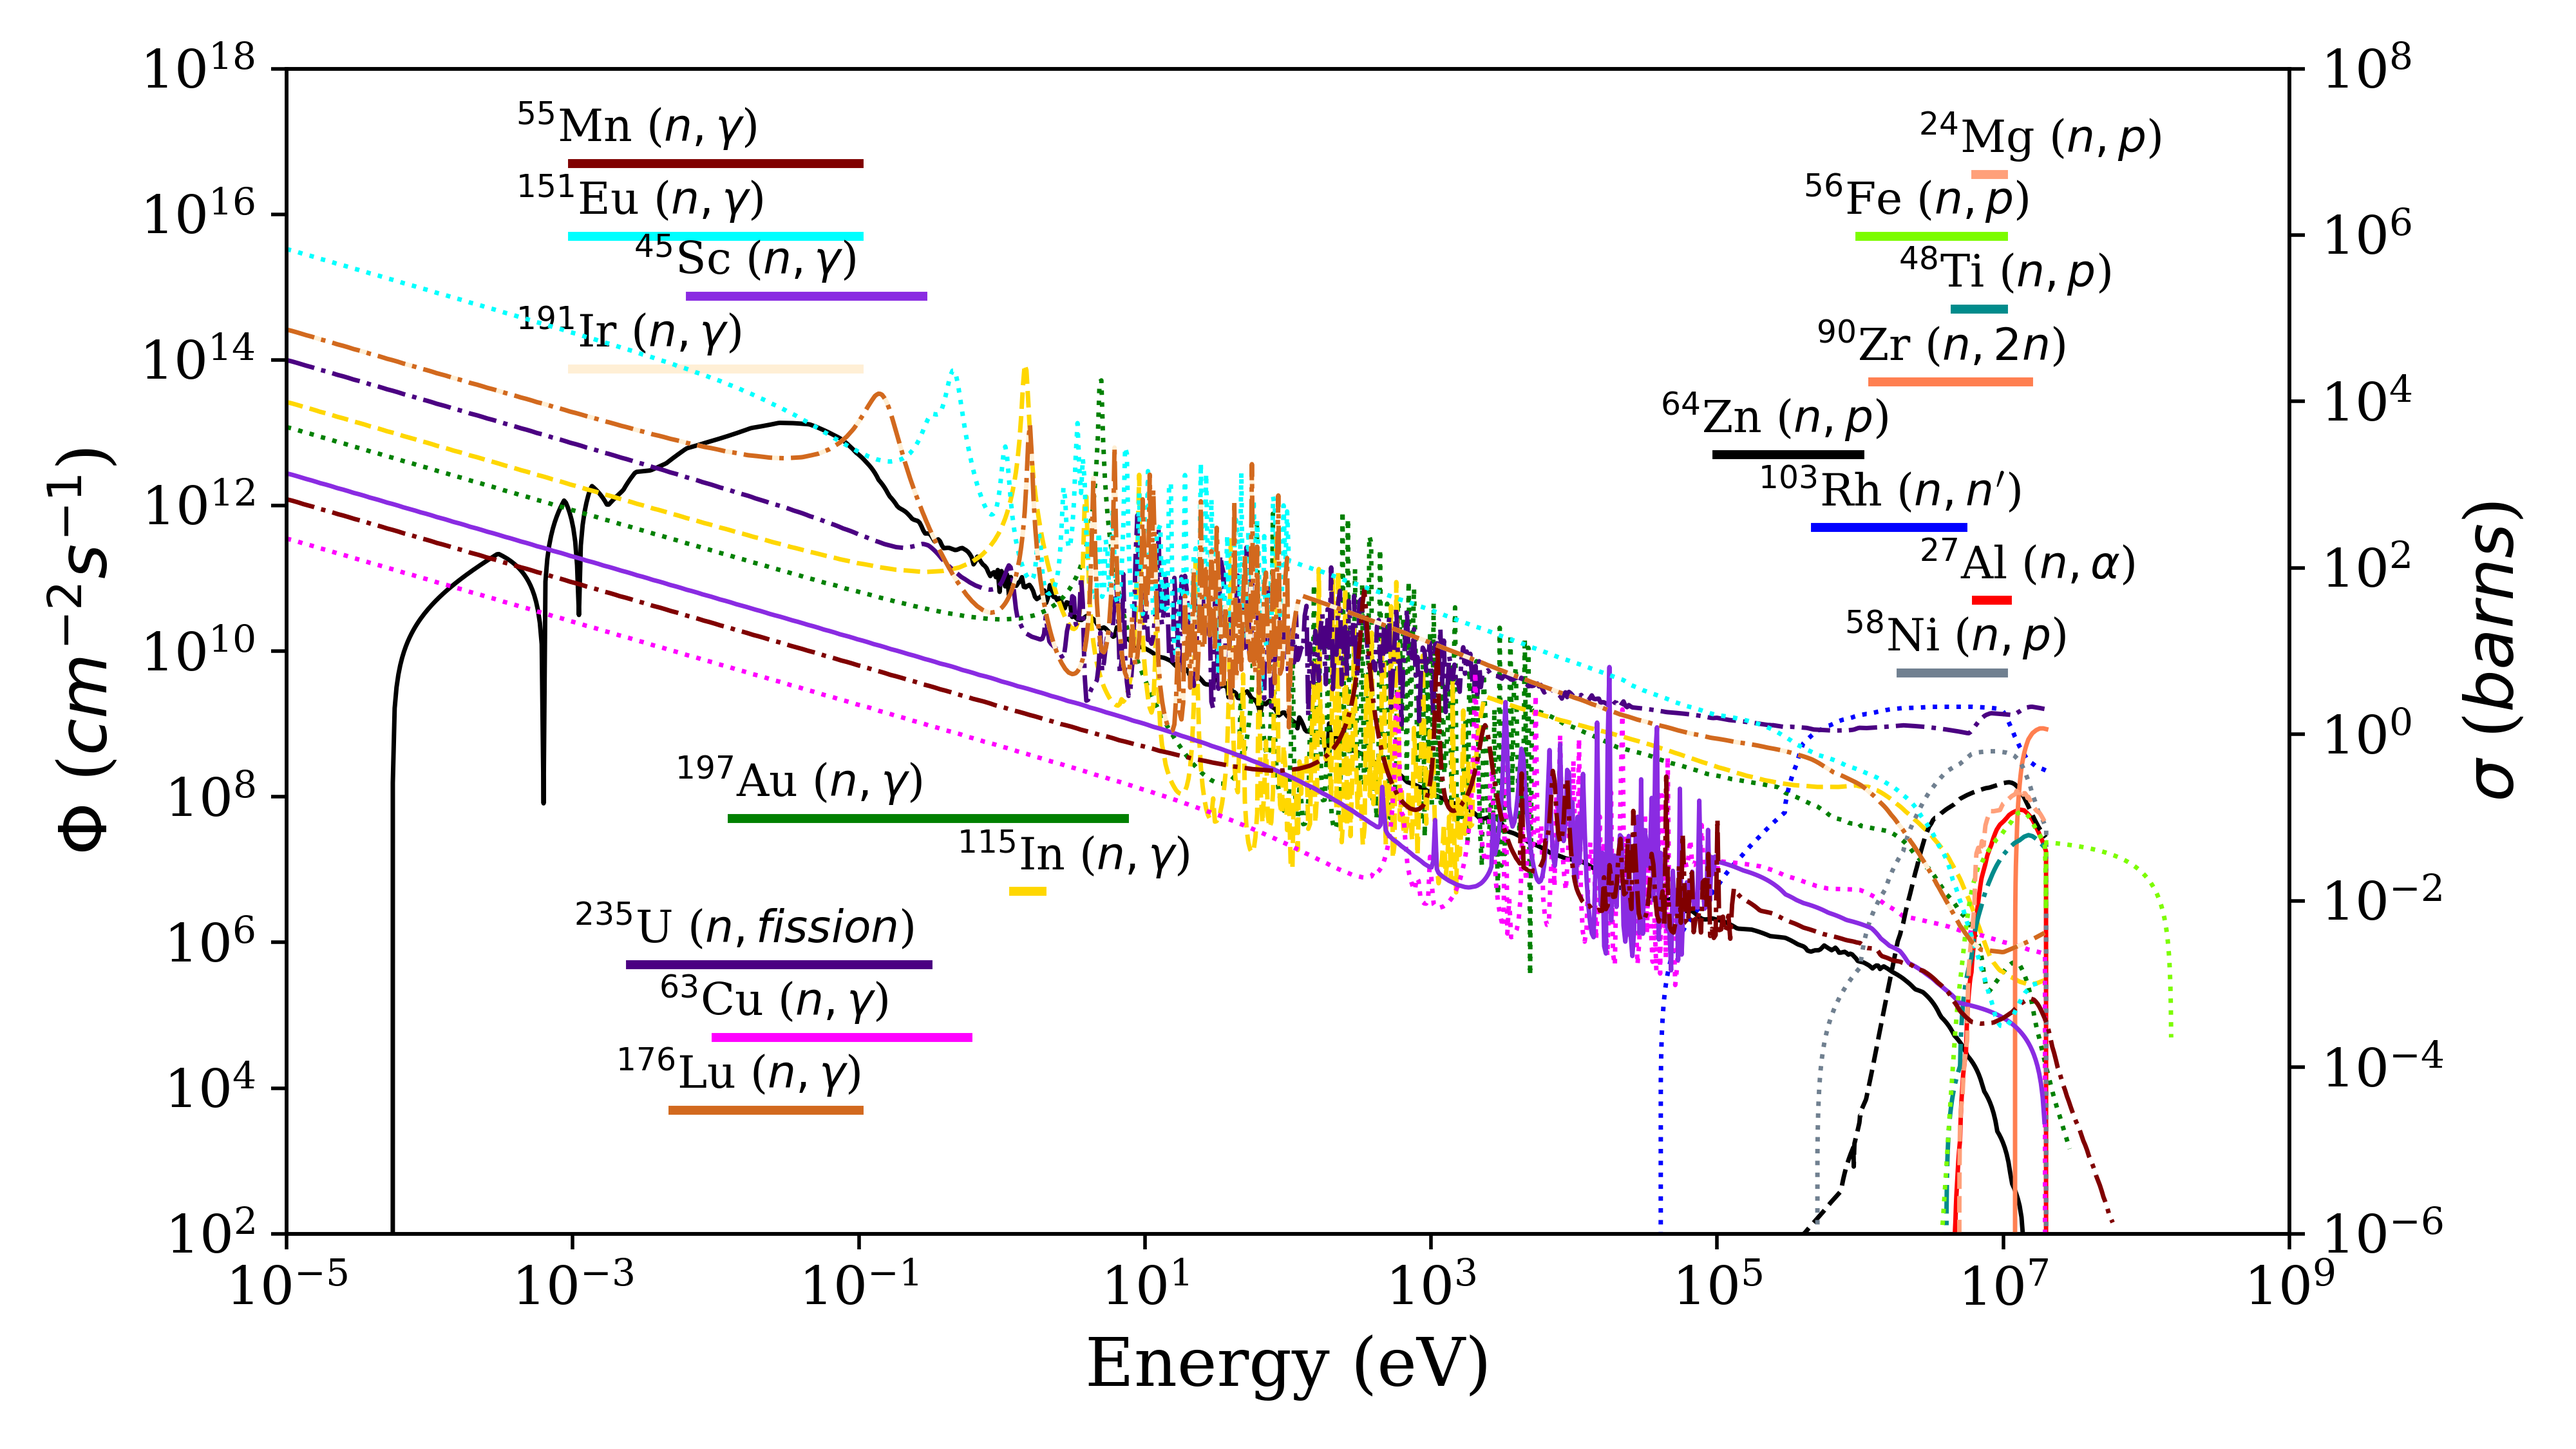
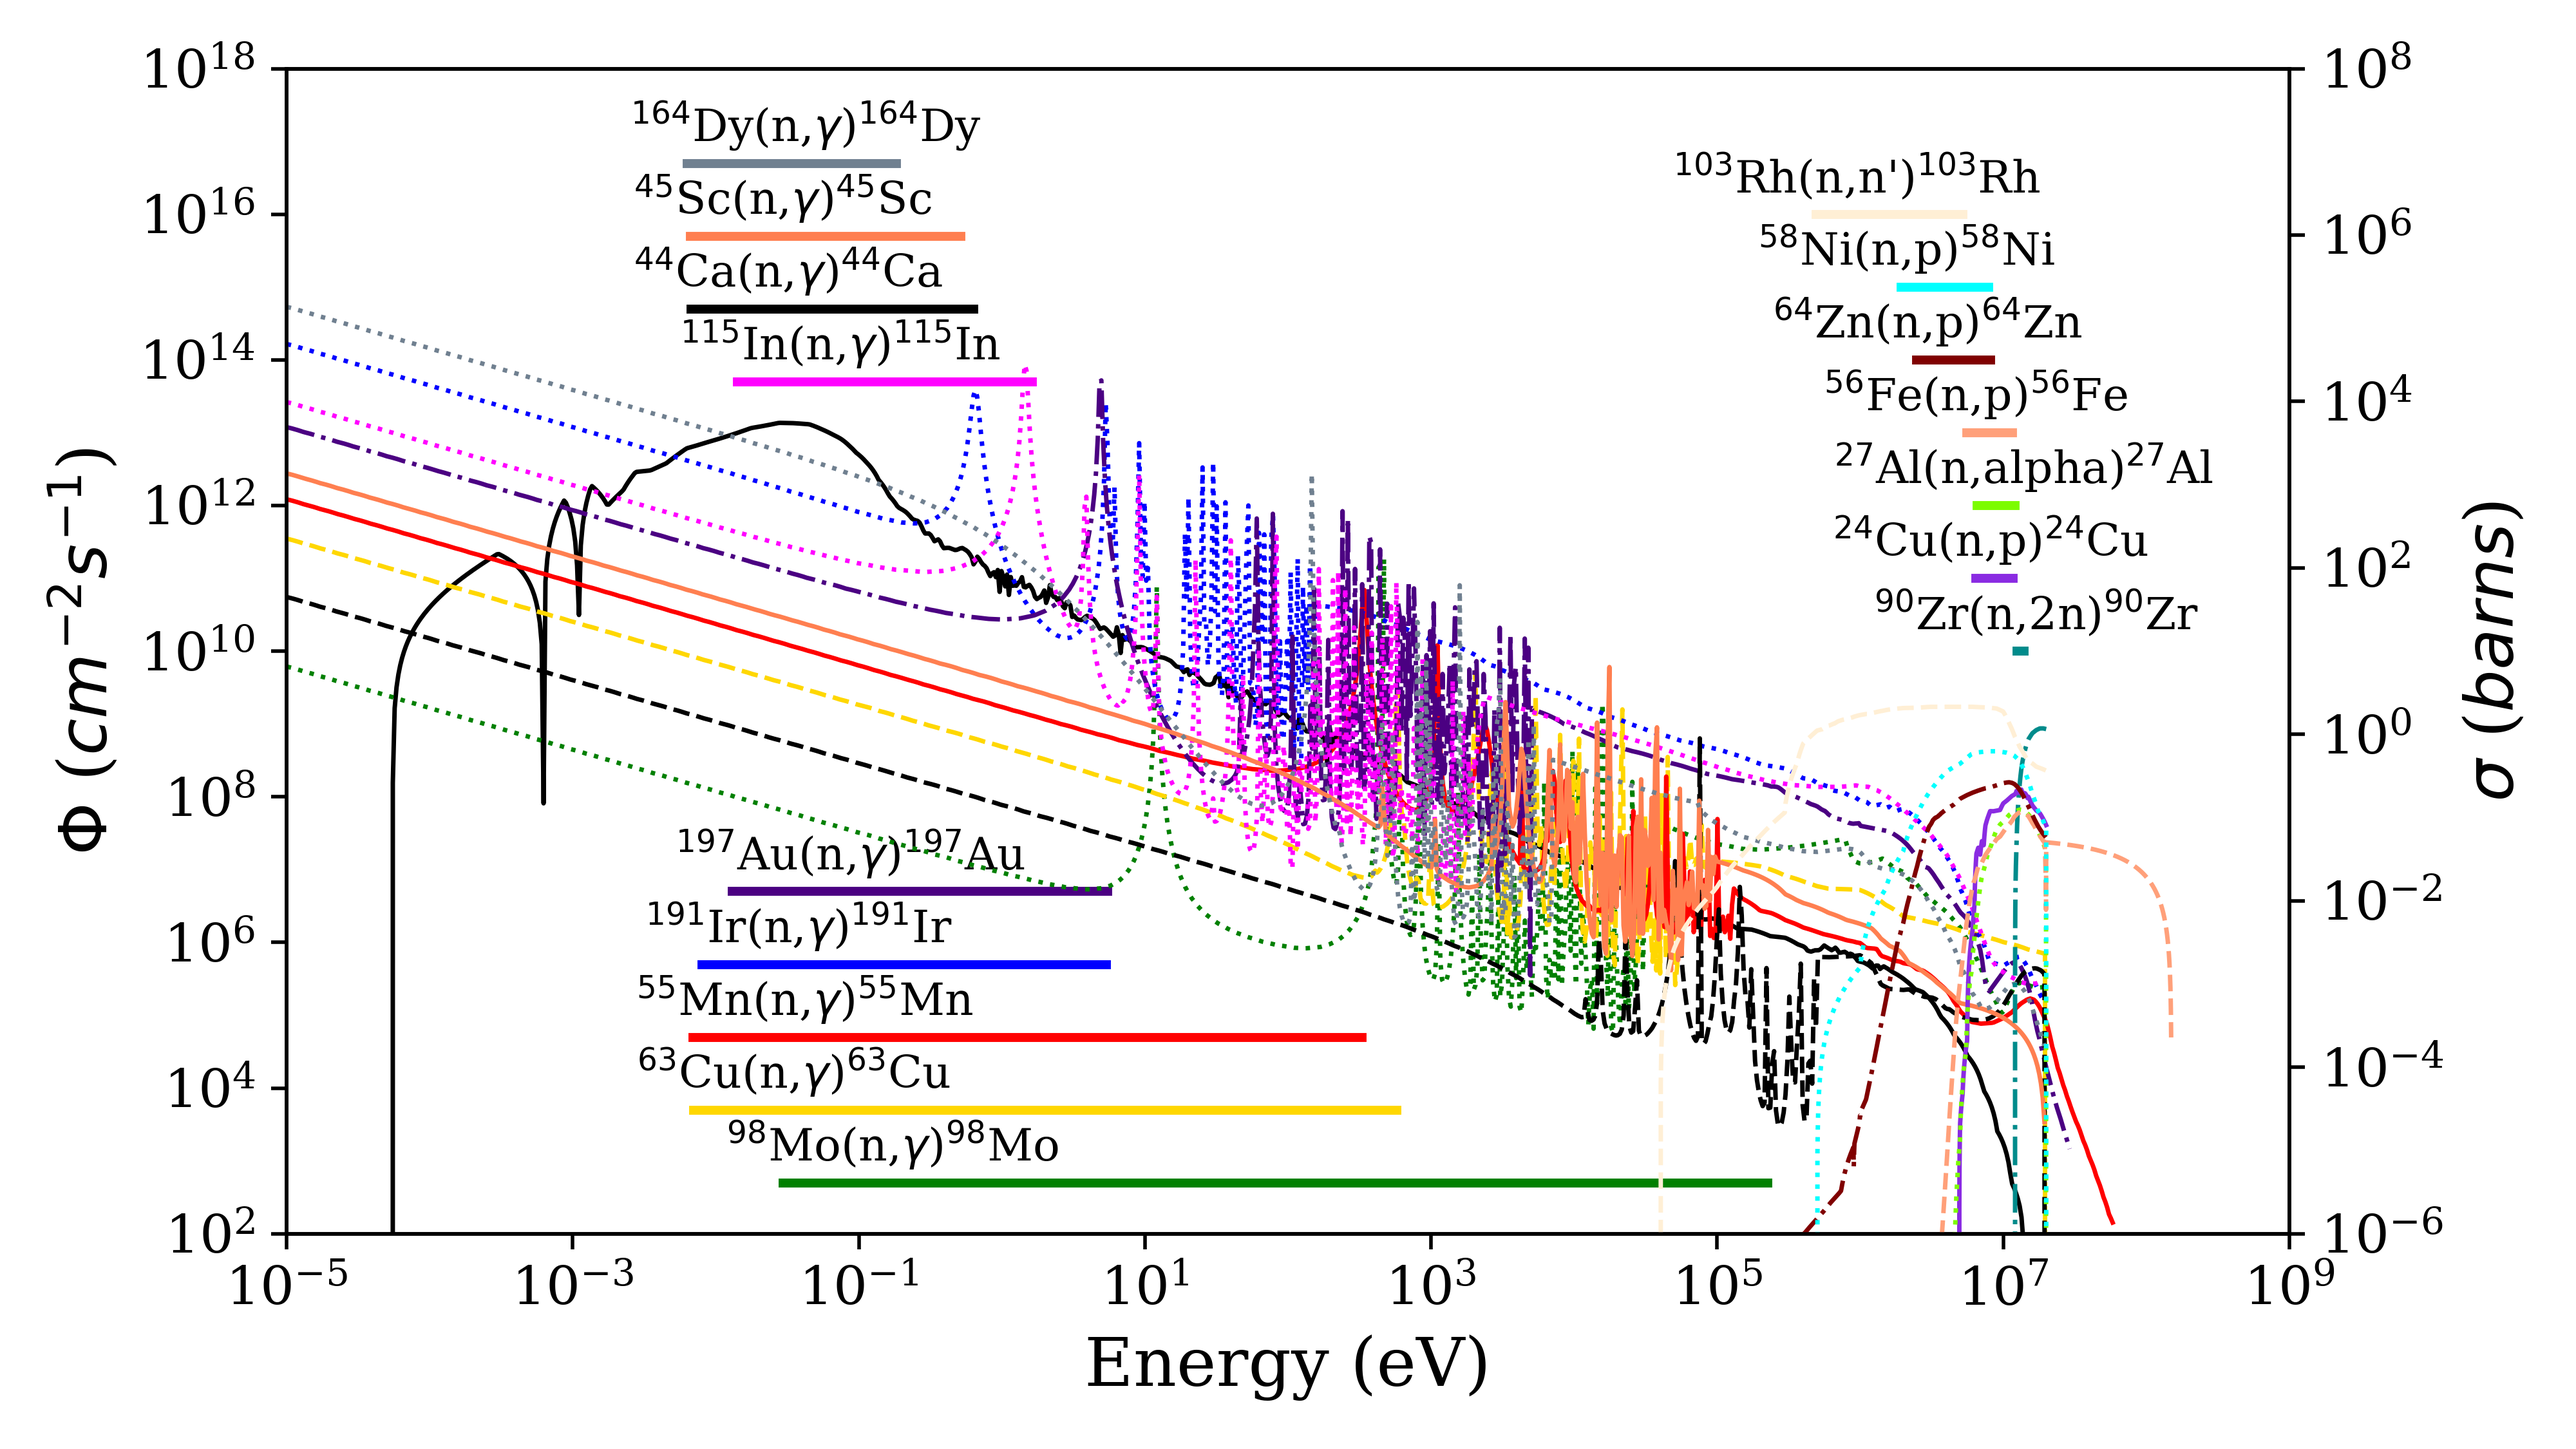
updated amalgamated plot

Changed region(s): [[0.125, 0.0622, 0.8125, 0.84], [0.6562, 0.0622, 0.875, 0.4978]]

diff --git a/source/amalgamated_plot.py b/source/amalgamated_plot.py
@@ -2,7 +2,7 @@ import numpy as np
 import matplotlib.pyplot as plt
 from matplotlib import rc, rcParams
 
-from cross_sections import foils, Cd
+from reaction import foils
 from flux_spectrum import Flux
 from triga_spectrum import triga_spectrum
 
@@ -40,30 +40,6 @@ x = np.logspace(-5, 8, 1000)
 y = triga_spectrum(x)
 ax1.plot(x, y, 'k', label='$\Phi$')
 
-reactions = [foils['Au']['reactions']['n,gamma'],
-             foils['In']['reactions']['n,gamma'],
-             foils['Al']['reactions']['n,alpha'],
-             foils['Rh']['reactions']['n,inelastic'],
-             foils['U']['reactions']['n,total_fission'],
-             foils['Cu']['reactions']['n,gamma'],
-             foils['Zn']['reactions']['n,p'],
-             foils['Zr']['reactions']['n,2n'],
-             foils['Ni']['reactions']['n,p'],
-             foils['Ti']['reactions']['n,p'],
-             foils['Sc']['reactions']['n,gamma'],
-             foils['Fe']['reactions']['n,p'],
-             foils['Mg']['reactions']['n,p'],
-             foils['Mn']['reactions']['n,gamma'],
-             #foils['Mo']['reactions']['n,gamma'],
-             foils['Eu']['reactions']['n,gamma'],
-             foils['Ir']['reactions']['n,gamma'],
-             foils['Lu']['reactions']['n,gamma']]
-
-foilnames = ['$^{197}$Au', '$^{115}$In', '$^{27}$Al', '$^{103}$Rh', '$^{235}$U',
-             '$^{63}$Cu', '$^{64}$Zn','$^{90}$Zr','$^{58}$Ni','$^{48}$Ti',
-             '$^{45}$Sc', '$^{56}$Fe', '$^{24}$Mg','$^{55}$Mn',#'$^{98}$Mo',
-             '$^{151}$Eu', '$^{191}$Ir', '$^{176}$Lu']
-
 colors = ['green', 'gold', 'red', 'blue', 'indigo', 'fuchsia', 'black', 
           'coral','slategrey', 'darkcyan', 'blueviolet', 'lawngreen',
           'lightsalmon', 'maroon', 'cyan','papayawhip', 'chocolate',
@@ -71,21 +47,40 @@ colors = ['green', 'gold', 'red', 'blue', 'indigo', 'fuchsia', 'black',
 linestyles = [':', '--', '-', ':', '-.', ':','--', '-',':','-.','-',':','--',
               '-.',':','--','-.',':']
 scaling_factor = 5e14
-heights = np.array([1e-7, 1e-8, 1e-4, 1e-3, 1e-9, 1e-10,1e-2,1e-1,1e-5,1,
-                    1.5,10,70,100,10,1.5e-1,1e-11,1e-12]) * scaling_factor
+res_heights = np.array([1e3, 1e4, 1e5, 1e6, 1e7, 1e14, 1e15, 1e16, 1e17]) * 0.5
+thresh_heights = np.geomspace(1e10, 1e17, 8)
 
-for i, reaction in enumerate(reactions):
+resonance = []
+threshold = []
+for key, foil in foils.items():
+    if foil.classification == 'resonance':
+        resonance.append(foil)
+    else:
+        threshold.append(foil)
+resonance = sorted(resonance, key=lambda x: -(np.log(x.roi[1]) - np.log(x.roi[0])))
+threshold = sorted(threshold, key=lambda x: np.log(x.roi[1]) - np.log(x.roi[0]))
+
+for i, foil in enumerate(resonance):
     # region
-    roi = reaction['roi']
-    l = reaction['label']
-    f = foilnames[i]
-    ax1.plot(roi, [heights[i]]*2, color=colors[i], linewidth=2.0)
-    ax1.text(roi[0]*0.4, heights[i]*2, f+' '+l)
+    ax1.plot(foil.roi, [res_heights[i]]*2, color=colors[i], linewidth=2.0)
+    ax1.text(foil.roi[0]*0.4, res_heights[i]*2, foil.label)
 
     # cross section
-    xs = reaction['func']
-    region = reaction['region']
+    xs = foil.func
+    region = foil.region
     reg = np.geomspace(*region, 1000)[:-1]
-    ax2.plot(reg, xs(reg), color=colors[i], label=f+' '+l, linestyle=linestyles[i])
+    ax2.plot(reg, xs(reg), color=colors[i], label=foil.label, linestyle=linestyles[i])
+
+for i, foil in enumerate(threshold):
+    l = len(resonance)
+    # region
+    ax1.plot(foil.roi, [thresh_heights[i]]*2, color=colors[i+l], linewidth=2.0)
+    ax1.text(foil.roi[0]*0.1, thresh_heights[i]*2, foil.label)
+
+    # cross section
+    xs = foil.func
+    region = foil.region
+    reg = np.geomspace(*region, 1000)[:-1]
+    ax2.plot(reg, xs(reg), color=colors[i+l], label=foil.label, linestyle=linestyles[i+l])
 
 fig.savefig('plot/amalgamated.png', dpi=500)

diff --git a/source/reaction.py b/source/reaction.py
@@ -41,7 +41,8 @@ class Reaction(object):
         reac, r_num = self.reactant.split('-')
         bypr, b_num = self.reactant.split('-')
         cd_s = ' Cd' if self.cd else ''
-        label = '$^{{{}}}${}({})$^{{{}}}${}{}'.format(r_num, reac, self.reaction, b_num, reac, cd_s)
+        reaction = self.reaction if self.reaction != 'n,gamma' else 'n,$\gamma$'
+        label = '$^{{{}}}${}({})$^{{{}}}${}{}'.format(r_num, reac, reaction, b_num, reac, cd_s)
         cd_s = '_Cd' if self.cd else ''
         plotname = '{}({}){}{}'.format(self.reactant, self.reaction, self.byproduct, cd_s)
         return label, plotname
@@ -69,7 +70,7 @@ class Reaction(object):
         return l, r
 
 foils['In'] = Reaction('In-115', 'n,gamma', 'In-116', False, 114.818, 7.31, '49-In-115(n,&gamma;).txt', 54*60, 0.9572, 1293, 0.8, -1)
-foils['InCd'] = Reaction('In-115', 'n,gamma', 'In-116', True, 114.818, 7.31, '49-In-115(n,&gamma;).txt', 54*60, 0.9572, 1293, 0.8, -1)
+# foils['InCd'] = Reaction('In-115', 'n,gamma', 'In-116', True, 114.818, 7.31, '49-In-115(n,&gamma;).txt', 54*60, 0.9572, 1293, 0.8, -1)
 foils['Mo'] = Reaction('Mo-98', 'n,gamma', 'Mo-98', False, 95.95, 10.28, '42-Mo-98(n,&gamma;).txt', 66*3600, 0.2429, 740, 0.12, -1)
 foils['Zn'] = Reaction('Zn-64', 'n,p', 'Cu-64', False, 65.38, 7.14, '30-Zn-64(n,p).txt', 61.9*3600, 0.492, 1345.77, 0.00475, -1)
 foils['Cu'] = Reaction('Cu-63', 'n,gamma', 'Cu-64', False, 63.546, 8.96, '29-Cu-63(n,&gamma;).txt', 61.9*3600, 0.6915, 1345.77, 0.00475, -1)
